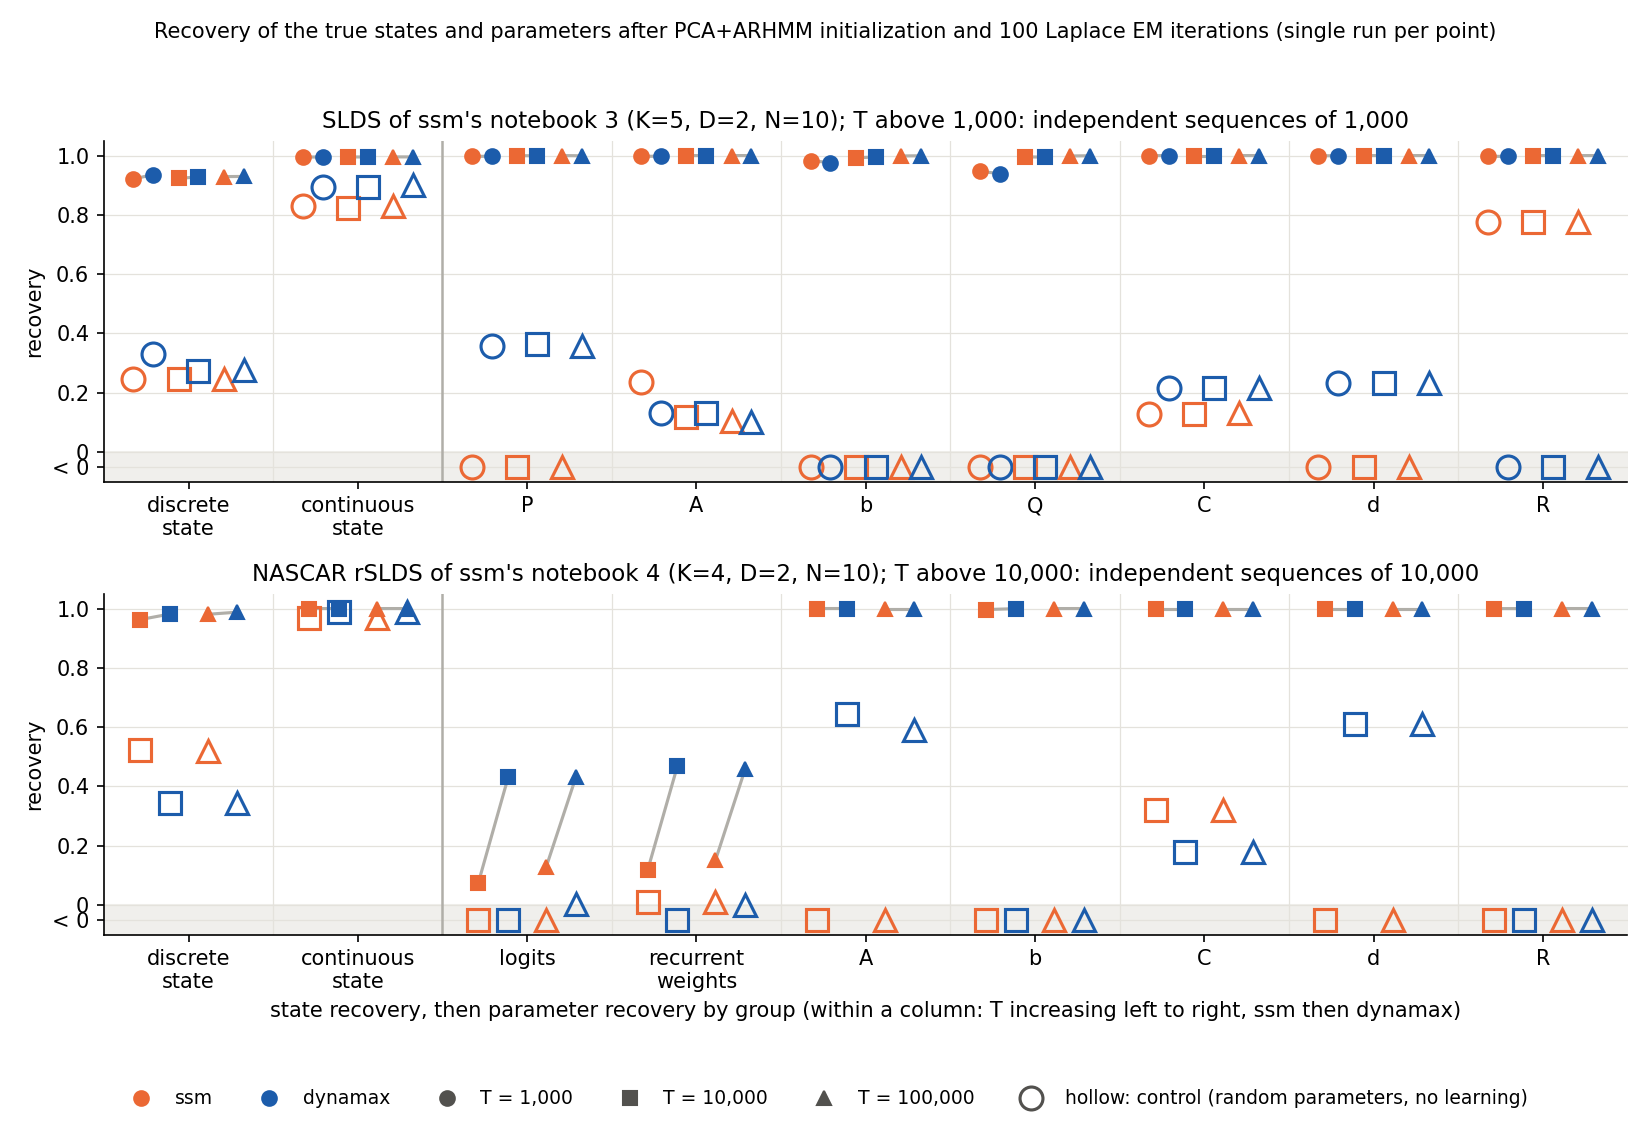
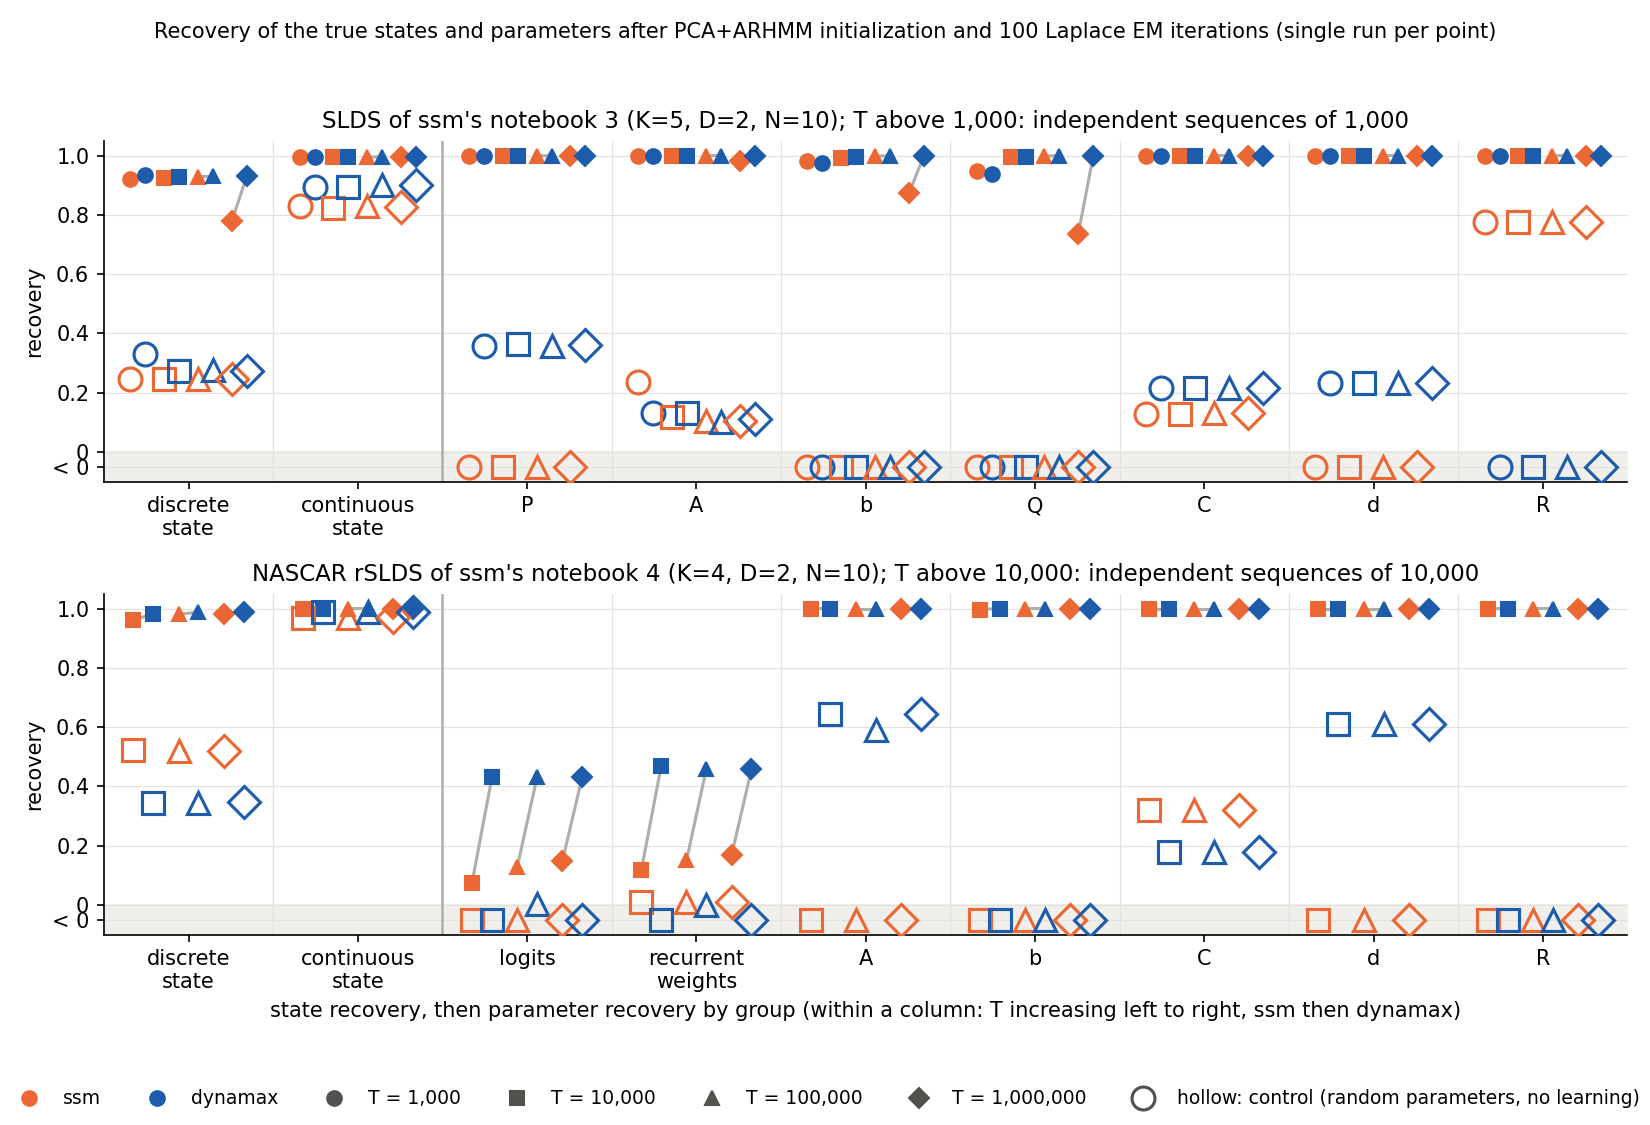
Add one million timesteps to the benchmark against ssm
Problem: the benchmark stopped at 100,000 timesteps.

Solution: run.py adds 1,000,000 timesteps for both models, as batches
like the other sizes: 1,000 SLDS sequences of 1,000 steps and 100 rSLDS
sequences of 10,000. results.jsonl and the three plots come from one
full run of 14 fits, which took about 4.5 hours; the README says so.

At 1,000,000 timesteps the speed-up in the total-time plot is 27.8x on
the SLDS and 12.9x on the rSLDS. At the smaller sizes it is unchanged
within single-run noise: 1.2x, 8.2x and 22.7x on the SLDS, 2.5x and
8.5x on the rSLDS.

On the SLDS at 1,000,000 timesteps ssm recovers the discrete states
less well than at the smaller sizes (0.78, against 0.92-0.93 there and
0.93 for dynamax), and its scores for b and Q drop to 0.87 and 0.74.
This is a single run. On every dataset, no dynamax recovery score is
more than 1% below ssm's.

diff --git a/benchmarks/slds_vs_ssm/run.py b/benchmarks/slds_vs_ssm/run.py
@@ -1,8 +1,8 @@
 """Run the benchmark: both notebook models x timesteps x (ssm, dynamax), in float64.
 
 Usage: python run.py
-Each dataset has its own grid (SIZES): the SLDS from the notebook's 1000 steps up to 100k, the NASCAR rSLDS from the
-notebook's 10000 steps up to 100k. Sizes above the notebook's are batches of independent sequences of the notebook's
+Each dataset has its own grid (SIZES): the SLDS from the notebook's 1000 steps up to 1M, the NASCAR rSLDS from the
+notebook's 10000 steps up to 1M. Sizes above the notebook's are batches of independent sequences of the notebook's
 length. Samples every dataset and writes results.jsonl afresh, one JSON line per run. Each run is a subprocess so the
 libraries never share a process.
 """
@@ -17,7 +17,7 @@ HERE = os.path.dirname(os.path.abspath(__file__))
 PYTHON = "/Users/nicholasbranigan/opt/miniconda3/envs/dyna_dev_ssm/bin/python"
 RESULTS = os.path.join(HERE, "results.jsonl")
 NUM_ITERS = 100
-SIZES = {"slds": [1000, 10000, 100000], "rslds": [10000, 100000]}
+SIZES = {"slds": [1000, 10000, 100000, 1000000], "rslds": [10000, 100000, 1000000]}
 
 
 def run(cmd):

diff --git a/benchmarks/slds_vs_ssm/README.md b/benchmarks/slds_vs_ssm/README.md
@@ -10,6 +10,6 @@ pip install cython
 pip install --no-build-isolation "git+https://github.com/lindermanlab/ssm.git@eb6c8aa"
 
 # set PYTHON at the top of run.py to this environment's python (`which python`)
-python benchmarks/slds_vs_ssm/run.py      # about 35 minutes; writes the datasets and results.jsonl
+python benchmarks/slds_vs_ssm/run.py      # about 4.5 hours; writes the datasets and results.jsonl
 python benchmarks/slds_vs_ssm/plot.py     # writes speed.png, speed_total.png and recovery.png
 ```
